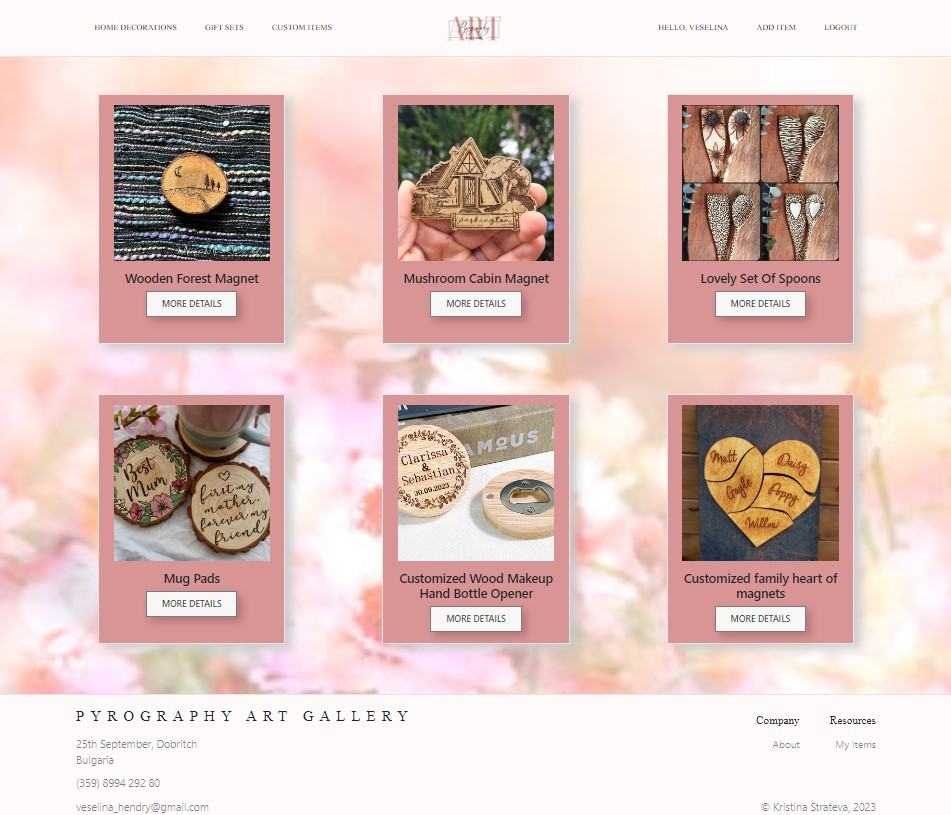
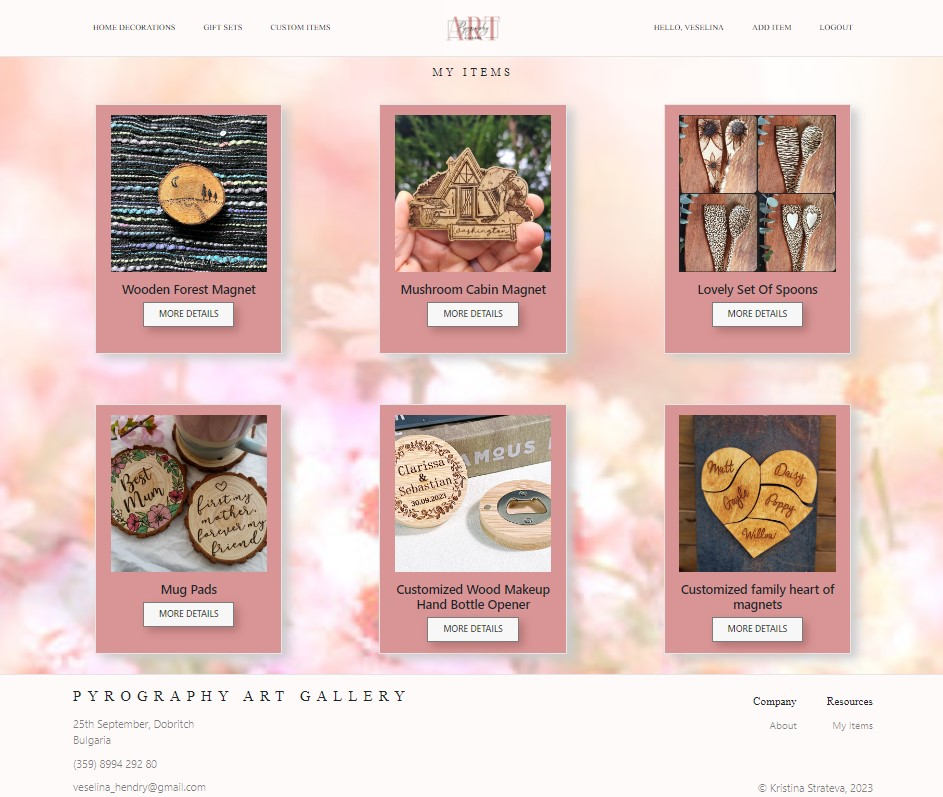
Update README.md

diff --git a/client/src/components/MyItems/MyItems.jsx b/client/src/components/MyItems/MyItems.jsx
@@ -21,17 +21,27 @@ export default function MyItems() {
 
     return (
         <div className={styles.wrapper}>
-            {myItems.length > 0 && myItems.map(item => {
-                const collectionName = formCollectionName(item.collectionName);
 
-                return (
-                    <div key={item._id} className={styles["category-card-category-card"]}>
-                        <img alt="image" src={item.imageUrl} className={styles["category-card-image"]} />
-                        <h5>{item.name}</h5>
-                        <Link to={`/${collectionName}/${item._id}/details`} className={mainStyle.button}>More details</Link>
+            {myItems.length > 0 && (
+                <>
+                    <h1 className={`${mainStyle["section-heading-text"]} ${mainStyle["Heading-2"]}`}>
+                        <span>MY ITEMS</span>
+                    </h1>
+                    <div className={styles["main-section"]}>
+                        {myItems.map(item => {
+                            const collectionName = formCollectionName(item.collectionName);
+
+                            return (
+                                <div key={item._id} className={styles["category-card-category-card"]}>
+                                    <img alt="image" src={item.imageUrl} className={styles["category-card-image"]} />
+                                    <h5>{item.name}</h5>
+                                    <Link to={`/${collectionName}/${item._id}/details`} className={mainStyle.button}>More details</Link>
+                                </div>
+                            )
+                        })}
                     </div>
-                )
-            })}
+                </>
+            )}
 
             {!myItems.length && <p>You don't have any items added yet!</p>}
         </div>

diff --git a/client/src/components/MyItems/MyItems.module.css b/client/src/components/MyItems/MyItems.module.css
@@ -1,9 +1,14 @@
 .wrapper {
     display: flex;
+    flex-direction: column;
+}
+
+.main-section {
+    display: flex;
     justify-content: space-evenly;
     gap: 5em;
     max-width: 1360px;
-    margin-block: 5em;
+    margin-block: 2em;
     flex-wrap: wrap;
 }
 

diff --git a/README.md b/README.md
@@ -35,23 +35,23 @@ Welcome to Pyrography ART Gallery, an immersive platform that celebrates the art
 
 ## Screenshots
 - **Guest experience:**
-<img src="/client/public/images/home_page.jpg" alt="Home Page" width="500" />
-<img src="/client/public/images/details_page_guest.jpg" alt="Home Page2" width="500" />
+<img src="/client/public/images/home_page.jpg" alt="Home Page" width="800" />
+<img src="/client/public/images/details_page_guest.jpg" alt="Home Page2" width="800" />
 
 - **Authorized experience:**
-<img src="/client//public/images/home_page_logged_in_1.jpg" alt="Home Page" width="500" />
-<img src="/client//public/images/my_items_page.jpg" alt="Home Page" width="500" />
+<img src="/client//public/images/home_page_logged_in_1.jpg" alt="Home Page" width="800" />
+<img src="/client//public/images/my_items_page.jpg" alt="Home Page" width="800" />
 
 - **Authorized owner experience:**
-<img src="/client//public/images/details_page_owner.jpg" alt="Home Page" width="500" />
+<img src="/client//public/images/details_page_owner.jpg" alt="Home Page" width="800" />
 
 - **Authorized not owner experience:**
 
-    before like
-<img src="/client//public/images/details_page_not_owner.jpg" alt="Home Page" width="500" />
+before like
+<img src="/client//public/images/details_page_not_owner.jpg" alt="Home Page" width="800" />
 
-    after like
-<img src="/client//public/images/details_page_with_like.jpg" alt="Home Page" width="500" />
+after like
+<img src="/client//public/images/details_page_with_like.jpg" alt="Home Page" width="800" />
 
 ## Acknowledgement
 
